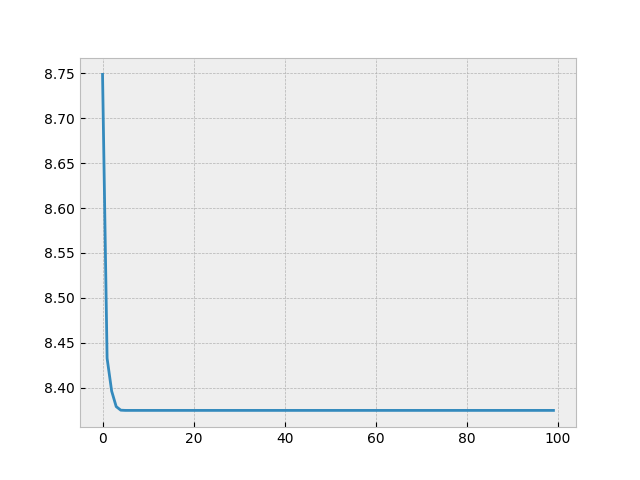
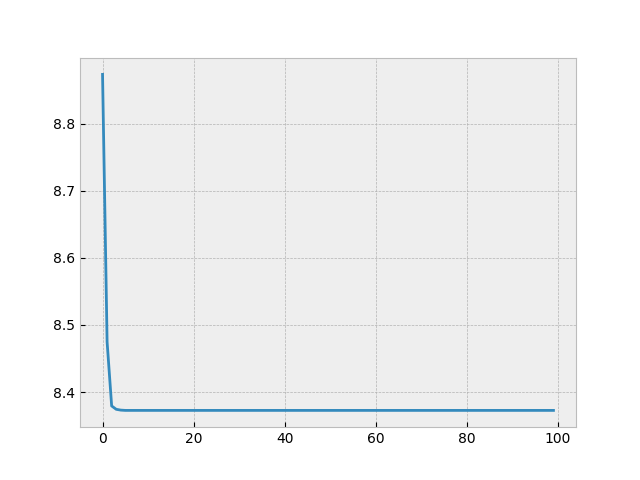
Everything works, optimization next

diff --git a/neural_nets/neural_nets.py b/neural_nets/neural_nets.py
@@ -1,7 +1,7 @@
 from numpy.random import normal
 import random as rand
 import math
-
+#'''
 class Node (): 
     def __init__(self, id, act_funct) :
         self.id = id
@@ -19,7 +19,26 @@ class Node ():
 
     #def set_value(self, value) : 
         #self.value = (lambda net, x : sum(value(net, self.parents, self.id, x)))
+'''
+class Node (): 
+    def __init__(self, id, act_funct) :
+        self.id = id
+        self.parents = []
+        self.act_funct = act_funct
+        #self.parts = lambda net, parents, id, x : [net.weights[(parent.id, self.id)] * parent.output(net,x) for parent in self.parents]
+        #self.value = lambda net, x : sum(self.parts(net, self.parents, self.id, x))
+        self.value = None
+    
+    def output(self, input = None) :
+        #if input == None :
+            #return lambda x : self.act_funct(self.value(net, x))
+            #return (lambda x : self.value(x))
+        return self.act_funct(self.value(input))
 
+    def set_value(self, value) : 
+        self.value = (lambda x : sum(value(self.parents, self.id, x)))
+
+#'''
 '''
 class NeuralNet (): 
     def __init__(self, layers, weights, act_funct, data, mutation_rate = 0, premade = False) :
@@ -53,7 +72,7 @@ class NeuralNet ():
                     continue
                 #print(id)
                 new_node.parents = self.make_node_specifics(layer, weights, node_order, id)
-                new_node.set_value(lambda parents, id, x : [self.weights[(parent.id, id)] * parent.output()(x) for parent in parents])
+                new_node.set_value(lambda parents, id, x : [self.weights[(parent.id, id)] * parent.output(x) for parent in parents])
                 self.nodes[layer].append(new_node)
                 
     def make_node_specifics(self, layer, weights, node_order, id) :
@@ -89,8 +108,7 @@ class NeuralNet ():
     
     def calc_ans(self, input) :
         culmunate = self.nodes[len(self.nodes)-1][0]
-        return culmunate.value(self.weights, input)
-        #return culmunate.output(self.weights, input)
+        return culmunate.output(self.weights, input)
 
     ## RSS is a thing that exists and is, in fact, what you are taking the derivative of. 
     ## Not... whatever you were thinking
@@ -106,7 +124,7 @@ class NeuralNet ():
         for layer in range(len(self.nodes)-1) :
             for node_from in self.nodes[layer] :
                 for node_to in self.nodes[layer+1] :
-                    weights[(node_from.id, node_to.id)] = 1 #rand.uniform(-2, 2)/10
+                    weights[(node_from.id, node_to.id)] = rand.uniform(-2, 2)/10
         return weights
 #'''
 #'''
@@ -191,12 +209,13 @@ class NeuralNetField ():
             child = children_data[child_id]
             for (connect, weight) in parent.weights.items() :
                 child['weights'][connect] = weight * parent.mut_rate * normal(0,1)
-            child['mutate'] = parent.mut_rate ** (normal(0,1) / (2**(1/2) * weight_amount ** (1/4)))
+            child['mutate'] = parent.mut_rate ** (normal(0,1) / (2**(1/2) * self.num_weights ** (1/4)))
         return children_data
 
     def evolve(self, gens) :
         rss_gen_avg = {}
         for gen in range(gens) :
+            print(gen)
             gen_avg = [net.calc_rss() for net in self.curr_gen]
             rss_gen_avg[gen] = sum(gen_avg) / len(gen_avg)
             next_gen = [self.curr_gen[net_id] for (net_id, rss) in self.find_lowest_rss(15, self.curr_gen)]

diff --git a/neural_nets/test_nets.py b/neural_nets/test_nets.py
@@ -9,7 +9,7 @@ data = [(0.0, 7), (0.2, 5.6), (0.4, 3.56), (0.6, 1.23), (0.8, -1.03),
         (3.0, 3.8), (3.2, 2.56), (3.4, 0.68), (3.6, -1.58), (3.8, -3.84),
         (4.0, -5.76), (4.2, -7.01), (4.4, -7.38), (4.6, -6.76), (4.8, -5.22)]
 
-'''
+#'''
 x_data = [x for (x,y) in data]
 y_data = [y for (x,y) in data]
 
@@ -22,9 +22,9 @@ for (x,y) in data :
     norm_x = (x-x_min_max[0])/(x_min_max[1] - x_min_max[0])
     norm_y = (y-y_min_max[0])/(y_min_max[1] - y_min_max[0])
     normalized.append((norm_x, 2*norm_y-1))
-'''
+#'''
 node_num = [1, 10, 6, 3, 1]
-'''
+#'''
 net_set = []
 
 for layer_num in range(len(node_num)) :
@@ -41,17 +41,14 @@ def make_weights() :
         prev_amnt = node_num[layer_num -1 ] + 1
         weights[layer_num-1] = [[rand.uniform(-2, 2)/10 for _ in range(cur_amnt)] for __ in range(prev_amnt)]
     return weights
-'''
-#act_funct = (lambda x: (math.e**x - math.e ** (-x)) / (math.e**x + math.e ** (-x)))
-act_funct = lambda x : x
+#'''
+act_funct = (lambda x: (math.e**x - math.e ** (-x)) / (math.e**x + math.e ** (-x)))
+#act_funct = lambda x : x
 
-####net_field = [NeuralNet(net_set, make_weights(), act_funct, normalized.copy(), 0.05) for _ in range(30)]
-net_field = NeuralNetField(node_num, act_funct, data, 2)
-print(net_field.calc_ans(1))
-net_field.curr_gen[0].weights[(24,25)] = 4
-print(net_field.calc_ans(1))
+net_field = [NeuralNet(net_set, make_weights(), act_funct, normalized.copy(), 0.05) for _ in range(30)]
+#net_field = NeuralNetField(node_num, act_funct, data, 30)
 
-'''
+#'''
 def find_lowest_rss(amount, field) :
     rss_count = []
     for net_id in range(len(field)) :
@@ -77,6 +74,7 @@ rss_gen_avg = {}
 current_generation = net_field.copy()
 
 for gen in range (100) :
+    print(gen)
     gen_avg = [net.calc_rss() for net in current_generation]
     rss_gen_avg[gen] = sum(gen_avg) / len(gen_avg)
     next_gen = [current_generation[net_id] for (net_id, rss) in find_lowest_rss(15, current_generation)]
@@ -89,9 +87,9 @@ for gen in range (100) :
     next_gen.extend(children)
     current_generation = next_gen
 '''
-#rss_gen_avg = net_field.evolve(100)
+rss_gen_avg = net_field.evolve(100)
 
-'''
+#'''
 import matplotlib.pyplot as plt
 plt.style.use('bmh')
 x_axis = []
@@ -104,4 +102,4 @@ for (gen, rss) in rss_gen_avg.items() :
 plt.plot(x_axis, y_axis)
 
 plt.savefig('neural_nets/evolving.png')
-'''
+#'''
